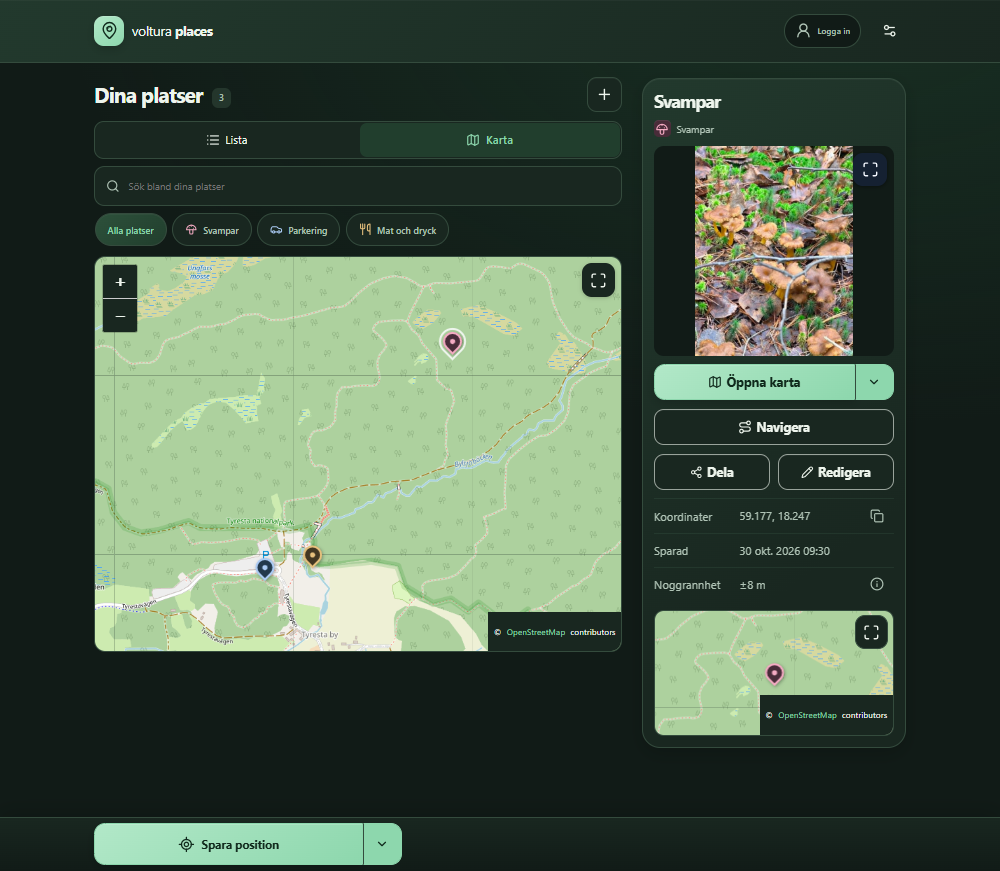
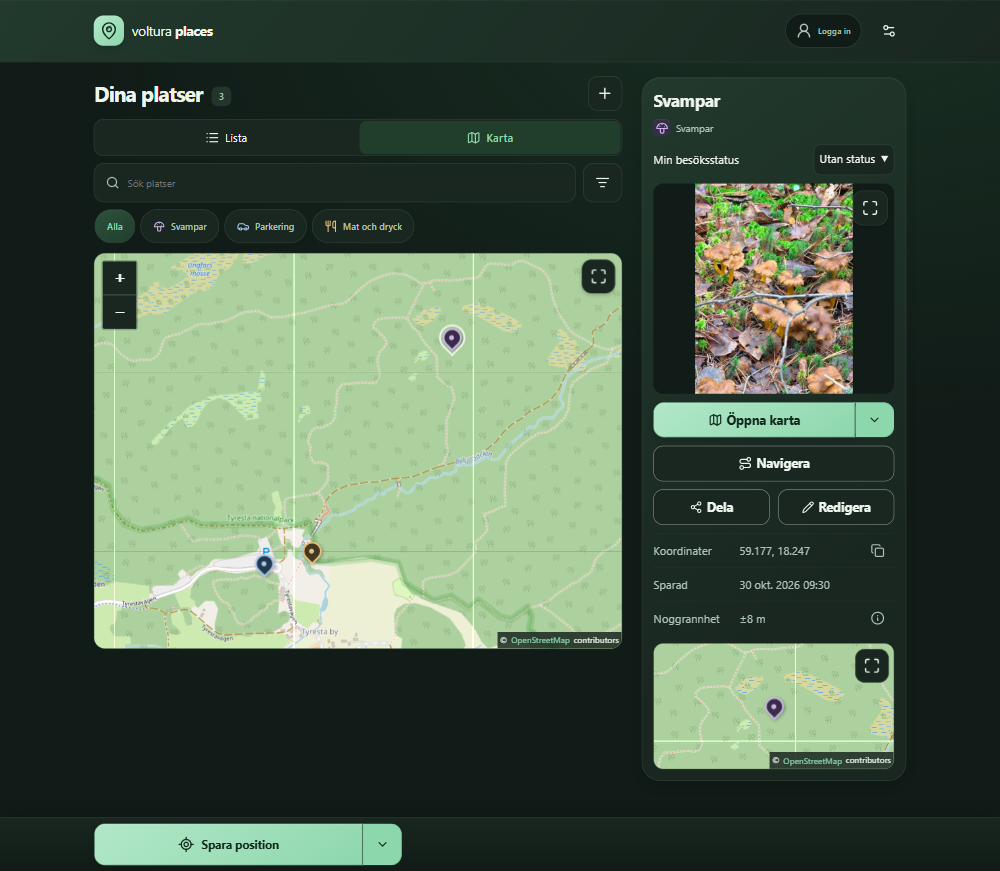
Refresh promo screenshots with compact map credits

diff --git a/docs/assets.md b/docs/assets.md
@@ -24,3 +24,5 @@ The app uses system fonts and Lucide icons (ISC license). React, Better Auth, Zo
 
 Startup PNGs and the English and Swedish social cards use lossless truecolour compression. The encoder removes an alpha channel only when all pixels are opaque and keeps the smaller encoding. The branding regression compares decoded RGBA pixels and dimensions against the original artwork for all 66 images. The promo and app reuse the same social-card bytes.
 `src/client/foundation/sweden-boundary.json` contains Sweden from Natural Earth 1:10m Admin 0 Countries, obtained from the [official data repository](https://github.com/nvkelso/natural-earth-vector/blob/master/geojson/ne_10m_admin_0_countries.geojson). Natural Earth data is [public domain](https://www.naturalearthdata.com/about/terms-of-use/). It selects map coverage locally. The Swedish terrain background is served by Naturkartan. OpenStreetMap tiles retain their attribution.
+
+The two desktop promo captures were refreshed from version 0.2.0 on 3 November 2026. They show the current filters, personal visit status and compact OpenStreetMap credit in both map surfaces. The mobile captures remain from 2 November.
